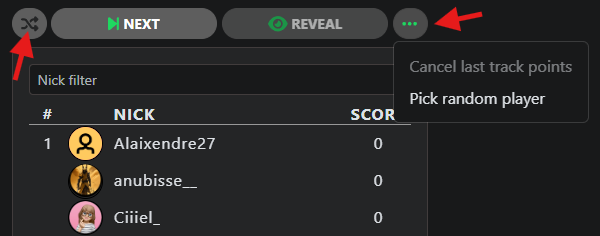
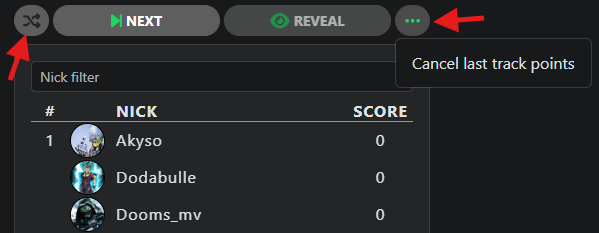
feat: remove 'pick random player' action.

diff --git a/src/components/BlindTest.tsx b/src/components/BlindTest.tsx
@@ -141,13 +141,6 @@ const BlindTest = () => {
     playerStore.backup();
   }
 
-  const pickRandomPlayer = () => {
-    const nicks = Object.keys(playerStore.players).filter((k) => playerStore.players[k].score > 0);
-    if (nicks.length > 0) {
-      setNickFilter(nicks[Math.floor(Math.random() * nicks.length)].toLowerCase());
-    }
-  }
-
   const cancelLastTrackPoints = () => {
     playerStore.setScores(scoresBackup.current);
     playerStore.backup();
@@ -439,7 +432,6 @@ const BlindTest = () => {
               </Dropdown.Toggle>
               <Dropdown.Menu>
                 <Dropdown.Item onClick={cancelLastTrackPoints} disabled={!playing || !allGuessed()}>Cancel last track points</Dropdown.Item>
-                <Dropdown.Item onClick={pickRandomPlayer}>Pick random player</Dropdown.Item>
               </Dropdown.Menu>
             </Dropdown>
 

diff --git a/src/components/Changelog.tsx b/src/components/Changelog.tsx
@@ -27,7 +27,6 @@ const Changelog = ({show, onClose}: any) => {
         <ul>
           <li><i><b>Shuffle</b></i> : the next track will be chosen randomly</li>
           <li><i><b>Cancel last track points</b></i> : removes the points awarded by the last track</li>
-          <li><i><b>Pick random player</b></i> : randomly selects a player with at least 1 point</li>
         </ul>
         <br/>
         <h5 className="h5-with-line">Playlist edition rework</h5>
